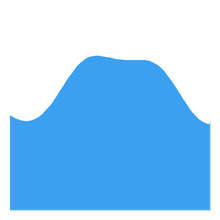
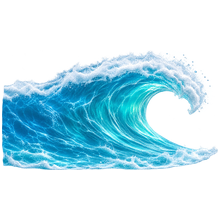
大波：くりんぐのクジラ動画とチャッピーの波の絵を反映
Claude-Session: https://claude.ai/code/session_01HLDAdxR8EuB7ryd8AUY3Hp

diff --git a/tsumi/index.html b/tsumi/index.html
@@ -703,10 +703,16 @@ function updateStatue(dt){ const b=S.stBody; if(!b) return; const th=stH(); if(b
 const STOCK_Y=470, SUN_X=990, SUN_Y=330;
 /* 大波（妨害）：クジラが横から現れて体を打ちつけ、青い大波が台をさらう。波にのまれた動物は浮かび、
    水が引くと「いくつかの低い山」にまぜ直されて台に戻る。波のあいだ〜落ち着くまでは、落ちても負けにならない。天使像がいるラウンドは防ぐ。 */
-const WV={tin:1.3,sweep:1.3,float:1.6,drain:.9,settle:2.4,lift:110}; const waveImg=new Image(); waveImg.src='./img/wave.png'; const whaleSh=null;
+const WV={tin:1.6,sweep:1.7,float:1.6,drain:.9,settle:2.4,lift:110,imgW:1000,wallTop:.26}; const waveImg=new Image(); waveImg.src='./img/wave.png'; let whaleSh=null;   // tin＝クジラが体を打ちつける瞬間（動画の19コマ目）
+setTimeout(()=>{ if(!whaleSh) whaleSh=mkSheet('whale',{n:47,cols:8,fw:640,fh:245,fps:12}); },0);   // 先に読みこんでおく
 const wvSm=u=>{ u=clamp(u,0,1); return u*u*(3-2*u); };
 function startWave(name){ if(S.wv || S.rb || S.seq){ (S.wvQ=S.wvQ||[]).push(name); return; } S.snap=null; S.wv={t:0,name,dir:Math.random()<.5?-1:1,list:[],planned:false,released:false,slam:false,top0:S.topY,lockEnd:WV.tin+WV.sweep+WV.float+WV.settle}; banner('大波！','#7fd4ff',name+' のしわざ'); }
-function wvFront(w){ const xl=viewL()-80, xr=viewR()+80, e=wvSm((w.t-WV.tin)/WV.sweep); return w.dir>0?xl+(xr-xl)*e:xr-(xr-xl)*e; }
+function wvFront(w){ const xl=viewL()-80, xr=viewR()+80+WV.imgW*.75, e=wvSm((w.t-WV.tin)/WV.sweep); return w.dir>0?xl+(xr-xl)*e:(viewR()+80)-(xr-xl)*e; }   // 波の絵が画面の外へ抜けきるところまで進む
+/* クジラ：くりんぐの動画から作った連番。画面の下から体を持ち上げて、打ちつける。動物の手前に大きく描き、打ちつけたあとは波にまぎれて消える */
+function drawWhale(){ const w=S.wv; if(!w) return; if(!whaleSh) whaleSh=mkSheet('whale',{n:47,cols:8,fw:640,fh:245,fps:12}); const sh=whaleSh, tR=WV.tin+WV.sweep+WV.float, d=w.dir;
+  if(sh.ok){ const f=Math.min(sh.n-1,Math.floor(w.t*12)), vw=viewR()-viewL(), ww=vw*1.4, wh=ww*sh.fh/sh.fw, al=clamp(w.t/.25,0,1)*clamp(1-(w.t-(WV.tin+.8))/.8,0,1), x=d>0?viewL()+ww*.4:viewR()-ww*.4, yb=Math.min(viewBot()+30,TOP_Y+190)+ (w.t>WV.tin+.5?Math.sin(S.t*2.2)*6:0); if(al<=0) return;
+    g.save(); g.globalAlpha=al; g.translate(x,yb-wh/2); if(d<0) g.scale(-1,1); g.drawImage(sh.cv,(f%sh.cols)*sh.fw,Math.floor(f/sh.cols)*sh.fh,sh.fw,sh.fh,-ww/2,-wh/2,ww,wh); g.restore(); return; }
+  const a=ANIMALS.kujira, im=a&&a.img; if(im && im.naturalWidth){ const ww=640, wh=ww*im.naturalHeight/im.naturalWidth, inn=1-Math.pow(1-clamp(w.t/.8,0,1),3), sink=clamp((w.t-tR)/WV.drain,0,1); g.save(); g.translate((d>0?viewL()+190:viewR()-190)-d*(1-inn)*700,TOP_Y-40+Math.sin(S.t*2.4)*12+sink*sink*500); if(d>0) g.scale(-1,1); g.drawImage(im,-ww/2,-wh/2,ww,wh); g.restore(); } }
 function wvLevel(w){ const H=clamp(TOP_Y-w.top0+200,330,Math.max(340,TOP_Y-viewTop()-140)), tR=WV.tin+WV.sweep+WV.float, dr=clamp((w.t-tR)/WV.drain,0,1); return TOP_Y-H+(H+260)*dr*dr; }
 function updateWave(dt){ const w=S.wv; if(!w) return; w.t+=dt; const tP=WV.tin+WV.sweep, tR=tP+WV.float;
   if(!w.slam && w.t>=WV.tin){ w.slam=true; play('wv_splash'); play('wv_wash'); S.shake=Math.max(S.shake,.5); }
@@ -723,19 +729,16 @@ function updateWave(dt){ const w=S.wv; if(!w) return; w.t+=dt; const tP=WV.tin+W
       Body.setPosition(b,{x,y}); Body.setAngle(b,a); } }
   if(!w.released && w.t>=tR){ w.released=true; for(const b of w.list){ const p=b.plugin; if(p.wv.tx!=null){ Body.setPosition(b,{x:p.wv.tx,y:p.wv.ty}); Body.setAngle(b,0); } Body.setStatic(b,false); Body.setVelocity(b,{x:0,y:0}); Body.setAngularVelocity(b,0); Sleeping.set(b,false); p.air=false; p.airT=0; p.wv=null; } if(w.list.length){ play('heavy'); S.shake=Math.max(S.shake,.35); logAdd('大波で台の上がまざった','#ff9aa8'); } }
   if(w.t>=w.lockEnd){ S.wv=null; if(S.wvQ && S.wvQ.length) startWave(S.wvQ.shift()); } }
-function drawWave(){ const w=S.wv; if(!w) return; const tP=WV.tin+WV.sweep, tR=tP+WV.float, d=w.dir, xl=viewL()-80, xr=viewR()+80, ys=wvLevel(w), bot=viewBot()+80;
-  // クジラ（いまは動物の絵をそのまま使った仮の姿。動く絵が届いたら差しかえる）
-  { const a=ANIMALS.kujira, im=a&&a.img; if(im && im.naturalWidth){ const ww=640, wh=ww*im.naturalHeight/im.naturalWidth, inn=1-Math.pow(1-clamp(w.t/.8,0,1),3), rear=clamp((w.t-.55)/(WV.tin-.75),0,1), slam=clamp((w.t-WV.tin+.2)/.2,0,1), sink=clamp((w.t-tR)/WV.drain,0,1);
-      const x=(d>0?viewL()+190:viewR()-190)-d*(1-inn)*700, y=(w.t<WV.tin?TOP_Y-40-190*Math.sin(rear*Math.PI*.5)*(1-slam):Math.min(ys+120,TOP_Y-40)+Math.sin(S.t*2.4)*12)+sink*sink*500, rot=-d*(.5*Math.sin(rear*Math.PI*.5)*(1-slam)-.12*slam*(w.t<WV.tin+.3?1:0));
-      g.save(); g.translate(x,y); g.rotate(rot); if(d>0) g.scale(-1,1); g.drawImage(im,-ww/2,-wh/2,ww,wh); g.restore(); } }
-  if(w.t<WV.tin || ys>bot) return; const xf=wvFront(w), full=w.t>=tP, x0=full?xl:(d>0?xl:xf), x1=full?xr:(d>0?xf:xr), top=[], N=44;
-  for(let i=0;i<=N;i++){ const x=x0+(x1-x0)*i/N, dist=full?9999:Math.abs(xf-x), cr=clamp(1-dist/300,0,1); top.push([x, ys+Math.sin(x*.021+S.t*5)*10+Math.sin(x*.008-S.t*3.1)*9-150*cr*cr*(3-2*cr)+(dist<40?(40-dist)*2.2:0)]); }
-  g.save(); const gr=g.createLinearGradient(0,ys-160,0,TOP_Y+200); gr.addColorStop(0,'rgba(150,226,255,.62)'); gr.addColorStop(.25,'rgba(70,170,240,.60)'); gr.addColorStop(1,'rgba(16,80,180,.74)'); g.fillStyle=gr;
+function drawWave(){ const w=S.wv; if(!w) return; drawWhale(); const tP=WV.tin+WV.sweep, tR=tP+WV.float, d=w.dir, xl=viewL()-80, xr=viewR()+80, ys=wvLevel(w), bot=viewBot()+80;
+  if(w.t<WV.tin || ys>bot) return; const xf=wvFront(w), full=w.t>=tP, hasI=waveImg.naturalWidth>64, D=TOP_Y+190-ys, ih=D/(1-WV.wallTop), iw=hasI?ih*waveImg.naturalWidth/waveImg.naturalHeight:0, xb=hasI?xf-d*iw*.72:xf, x0=full?xl:(d>0?xl:Math.min(xr,xb)), x1=full?xr:(d>0?Math.max(xl,xb):xr), top=[], N=44; if(!full && (d>0?x1<=x0+4:x0>=x1-4) && !hasI) return;
+  for(let i=0;i<=N;i++){ const x=x0+(x1-x0)*i/N, dist=(full||hasI)?9999:Math.abs(xf-x), cr=clamp(1-dist/300,0,1); top.push([x, ys+Math.sin(x*.021+S.t*5)*10+Math.sin(x*.008-S.t*3.1)*9-150*cr*cr*(3-2*cr)+(dist<40?(40-dist)*2.2:0)]); }
+  g.save(); const gr=g.createLinearGradient(0,ys-160,0,TOP_Y+200); gr.addColorStop(0,'rgba(120,225,250,.62)'); gr.addColorStop(.25,'rgba(40,165,230,.62)'); gr.addColorStop(1,'rgba(12,100,200,.76)'); g.fillStyle=gr;
   g.beginPath(); g.moveTo(top[0][0],bot); for(const q of top) g.lineTo(q[0],q[1]); g.lineTo(top[N][0],bot); g.closePath(); g.fill();
   g.save(); g.clip(); g.globalCompositeOperation='lighter'; for(let i=0;i<26;i++){ const sd=i*37.7, bx=xl+((sd*53.3+S.t*(20+i%5*9))%(xr-xl)), by=ys+40+((sd*91.7-S.t*(60+i%4*30))%Math.max(60,TOP_Y+150-ys)+Math.max(60,TOP_Y+150-ys))%Math.max(60,TOP_Y+150-ys); g.fillStyle='rgba(255,255,255,.22)'; g.beginPath(); g.arc(bx,by,4+(i%4)*3,0,7); g.fill(); }
   for(let i=0;i<5;i++){ g.strokeStyle='rgba(255,255,255,.10)'; g.lineWidth=16; g.beginPath(); const yy=ys+70+i*90; for(let x=xl;x<=xr;x+=60){ const y2=yy+Math.sin(x*.012+S.t*2+i)*14; x===xl?g.moveTo(x,y2):g.lineTo(x,y2); } g.stroke(); } g.restore();
   g.lineJoin='round'; g.lineCap='round'; g.strokeStyle='rgba(255,255,255,.9)'; g.lineWidth=12; g.beginPath(); top.forEach((q,i)=>i?g.lineTo(q[0],q[1]):g.moveTo(q[0],q[1])); g.stroke(); g.strokeStyle='rgba(255,255,255,.35)'; g.lineWidth=7; g.beginPath(); top.forEach((q,i)=>i?g.lineTo(q[0],q[1]+24):g.moveTo(q[0],q[1]+24)); g.stroke();
-  if(!full){ g.fillStyle='rgba(255,255,255,.85)'; for(let i=0;i<9;i++){ const a=S.t*7+i*1.3; g.beginPath(); g.arc(xf+d*(10+Math.sin(a)*26),ys-90-i*14+Math.cos(a*1.3)*18,16-i,0,7); g.fill(); } }
+  if(!full && hasI){ g.save(); g.globalAlpha=.9; g.translate(xf,TOP_Y+190); if(d<0) g.scale(-1,1); g.drawImage(waveImg,-iw,-ih,iw,ih); g.restore(); }
+  if(!full && !hasI){ g.fillStyle='rgba(255,255,255,.85)'; for(let i=0;i<9;i++){ const a=S.t*7+i*1.3; g.beginPath(); g.arc(xf+d*(10+Math.sin(a)*26),ys-90-i*14+Math.cos(a*1.3)*18,16-i,0,7); g.fill(); } }
   g.restore(); }
 const stGuard=()=>S.stRound && S.mode==='playing';
 /* 天使像のストック：使っている間に届いた分は、画面の右にためておく（10体まで）。今の5ラウンドが終わると次の1体が出てくる */
